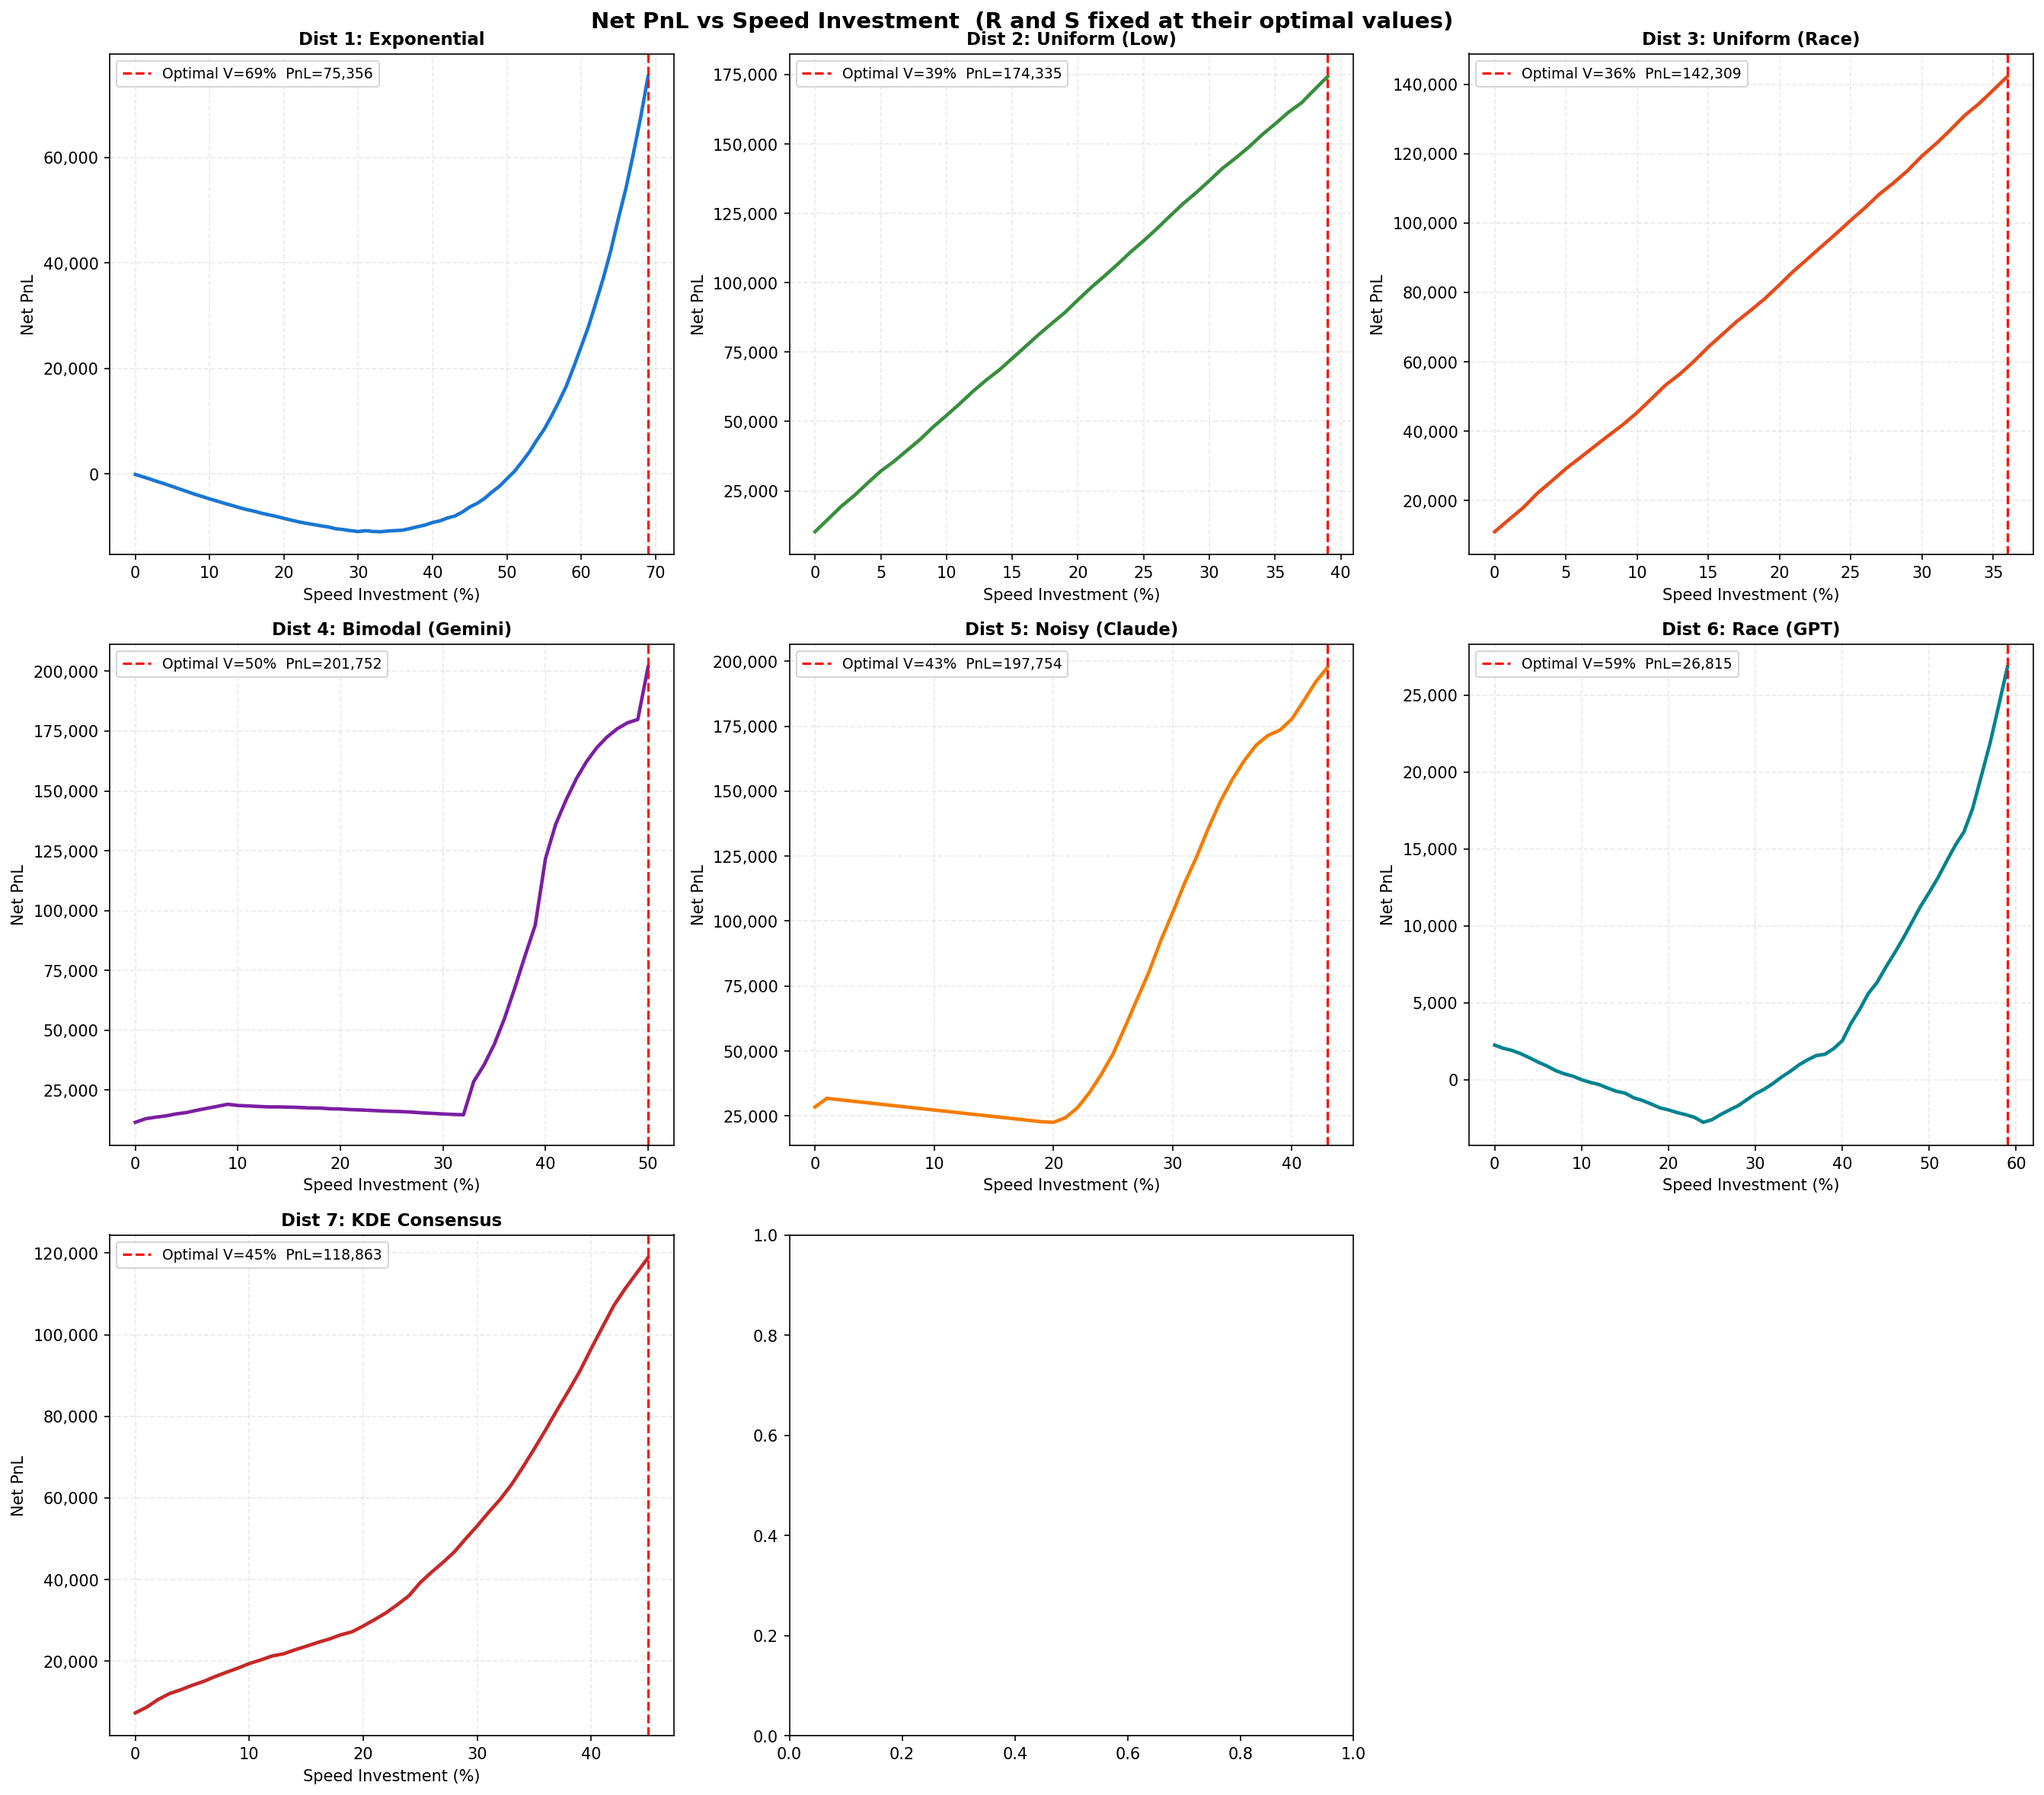
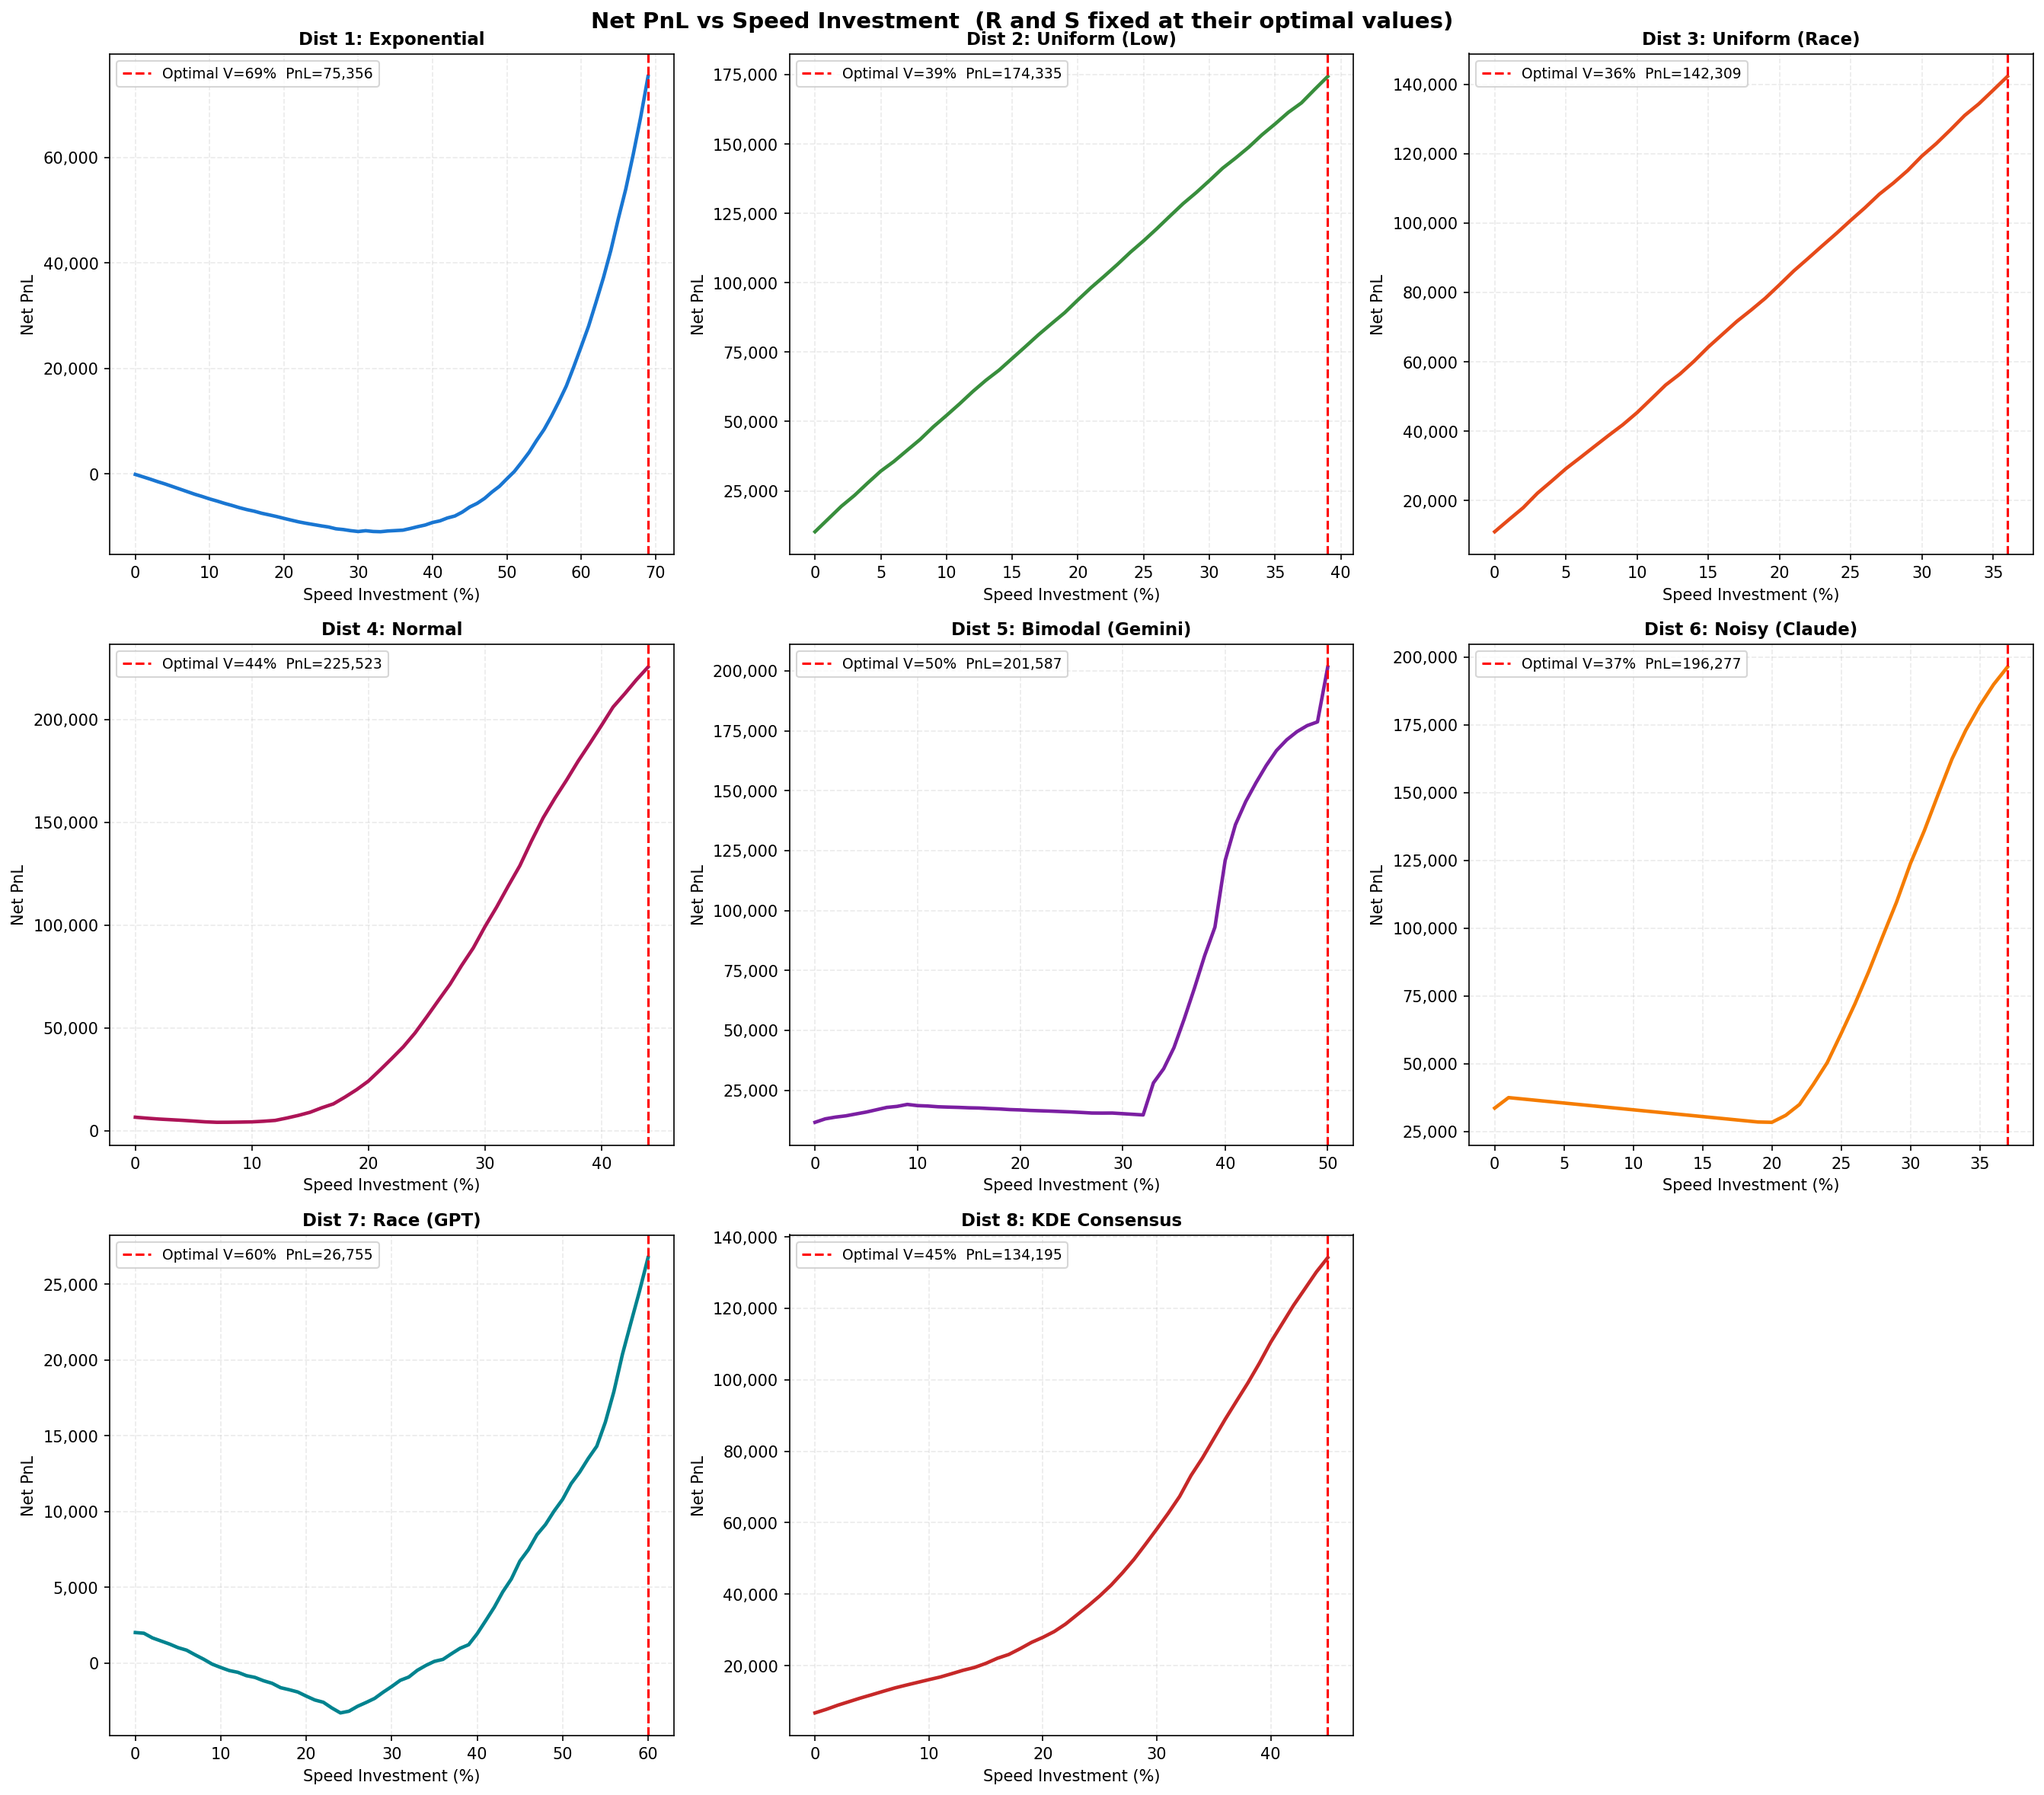
Add Dist 4 Normal, renumber Dists 4-8, update figures and README

diff --git a/ROUND2_Manual/analyze_invest.py b/ROUND2_Manual/analyze_invest.py
@@ -113,6 +113,14 @@ def gen_dist3():
     return add_offbyone_spikes(speeds, [0, 50], spike_frac=0.12)
 
 def gen_dist4():
+    """Normal distribution centered at 33.33%, std~10, truncated to [0,100]."""
+    raw = np.random.normal(loc=33.33, scale=10, size=N_TEAMS * 2)
+    raw = raw[(raw >= 0) & (raw <= 100)][:N_TEAMS]
+    arr = np.clip(np.round(raw).astype(int), 0, 100)
+    # Off-by-one spike at 34 (edging above the 33.33% Schelling point)
+    return add_offbyone_spikes(arr, [33], spike_frac=0.10)
+
+def gen_dist5():
     """Bimodal/Gemini: oblivious peak 0-10, dead zone 11-32, war-zone bulge 33-58.
     Schelling spikes at 33, 40, 50, 55 plus off-by-one edges at 34, 41, 51, 56."""
     speeds = []
@@ -137,7 +145,7 @@ def gen_dist4():
     # Off-by-one: players trying to edge above 0, 33, 40, 50, 55
     return add_offbyone_spikes(arr, [0, 33, 40, 50, 55], spike_frac=0.10)
 
-def gen_dist5():
+def gen_dist6():
     """Noisy/Claude: spike at 0, mass 20-40, exponential tail to 60+."""
     n_zero = int(N_TEAMS * 0.09)
     n_mid  = int(N_TEAMS * 0.57)
@@ -148,7 +156,7 @@ def gen_dist5():
     arr    = np.clip(np.round(raw).astype(int), 0, 100)
     return add_offbyone_spikes(arr, [0], spike_frac=0.15)
 
-def gen_dist6():
+def gen_dist7():
     """Race/GPT: heavy concentration 55-95%, inverse of typical distributions."""
     # From the table: 85-95=25%, 70-85=30%, 55-70=22%, 40-55=12%, 25-40=7%, <25=4%
     segments = [(85, 95, 0.25), (70, 85, 0.30), (55, 70, 0.22),
@@ -163,40 +171,40 @@ def gen_dist6():
     # Off-by-one near 50 and 0 (smaller effect here since most players are high)
     return add_offbyone_spikes(arr, [0, 50], spike_frac=0.10)
 
-# ── Generate all six, then derive the 7th ────────────────────────────────────
+# ── Generate all seven, then derive the 8th ──────────────────────────────────
 
-COLORS = ['#1976D2', '#388E3C', '#E64A19', '#7B1FA2', '#F57C00', '#00838F', '#C62828']
+COLORS = ['#1976D2', '#388E3C', '#E64A19', '#AD1457', '#7B1FA2', '#F57C00', '#00838F', '#C62828']
 
-d1 = gen_dist1(); d2 = gen_dist2(); d3 = gen_dist3()
-d4 = gen_dist4(); d5 = gen_dist5(); d6 = gen_dist6()
+d1 = gen_dist1(); d2 = gen_dist2(); d3 = gen_dist3(); d4 = gen_dist4()
+d5 = gen_dist5(); d6 = gen_dist6(); d7 = gen_dist7()
 
-def gen_dist7(all_six):
+def gen_dist8(all_seven):
     """
-    KDE of the combined speeds from all 6 distributions.
-    Fit a gaussian_kde to the 60 000 pooled samples, then draw
+    KDE of the combined speeds from all 7 distributions.
+    Fit a gaussian_kde to the 70 000 pooled samples, then draw
     10 000 new integer samples from that smoothed distribution.
     """
-    pooled = np.concatenate(all_six).astype(float)
+    pooled = np.concatenate(all_seven).astype(float)
     kde    = gaussian_kde(pooled, bw_method='scott')
-    # Sample from KDE by rejection-sampling into [0, 100]
     samples = []
     while len(samples) < N_TEAMS:
         raw = kde.resample(N_TEAMS * 2)[0]
         raw = raw[(raw >= 0) & (raw <= 100)]
         samples.extend(raw.tolist())
     arr = np.clip(np.round(np.array(samples[:N_TEAMS])).astype(int), 0, 100)
-    return arr, kde  # return kde so we can plot the smooth curve
+    return arr, kde
 
-d7, kde7 = gen_dist7([d1, d2, d3, d4, d5, d6])
+d8, kde8 = gen_dist8([d1, d2, d3, d4, d5, d6, d7])
 
 dists = [
     (d1, "Dist 1: Exponential"),
     (d2, "Dist 2: Uniform (Low)"),
     (d3, "Dist 3: Uniform (Race)"),
-    (d4, "Dist 4: Bimodal (Gemini)"),
-    (d5, "Dist 5: Noisy (Claude)"),
-    (d6, "Dist 6: Race (GPT)"),
-    (d7, "Dist 7: KDE Consensus"),
+    (d4, "Dist 4: Normal"),
+    (d5, "Dist 5: Bimodal (Gemini)"),
+    (d6, "Dist 6: Noisy (Claude)"),
+    (d7, "Dist 7: Race (GPT)"),
+    (d8, "Dist 8: KDE Consensus"),
 ]
 
 # ── Figure 1: Distribution visuals (3×3, last cell empty) ────────────────────
@@ -208,16 +216,17 @@ annot_data = [
     [(10, 0.55, "Very few\nat low %"), (70, 0.92, "Peak ~70%")],
     [(25, 0.88, "Uniform 0-50%"), (59, 0.65, "Slight drop"), (83, 0.25, "Near-zero")],
     [(25, 0.70, "Lower flat\n0-50%"), (60, 0.88, "Rises\n50-70%"), (83, 0.25, "Near-zero")],
+    [(33, 0.92, "Peak ~33%")],
     [(5, 0.92, "Oblivious"), (21, 0.40, "Dead\nzone"), (44, 0.70, "War-zone")],
     [(0, 0.88, "0% cluster"), (30, 0.78, "Core 20-40%"), (62, 0.45, "Tail 60+")],
     [(15, 0.40, "<25%:\n~4%"), (47, 0.55, "40-55%:\n~12%"), (77, 0.88, "55-95%:\n~77%")],
     [(50, 0.92, "Smoothed\nconsensus")],
 ]
 vline_data = [
-    [68], [], [50], [33, 40, 50, 55], [], [55], [],
+    [68], [], [50], [33], [33, 40, 50, 55], [], [55], [],
 ]
 offbyone_data = {
-    1: [1], 2: [1, 51], 3: [1, 34, 41, 51, 56], 4: [1], 5: [1, 51],
+    1: [1], 2: [1, 51], 3: [34], 4: [1, 34, 41, 51, 56], 5: [1], 6: [1, 51],
 }
 
 for idx, (dist, name) in enumerate(dists):
@@ -226,10 +235,10 @@ for idx, (dist, name) in enumerate(dists):
                            alpha=0.72, edgecolor='none', density=True)
     ymax = max(counts)
 
-    # Overlay KDE smooth curve on the 7th subplot
-    if idx == 6:
+    # Overlay KDE smooth curve on the 8th subplot
+    if idx == 7:
         x_smooth = np.linspace(0, 100, 500)
-        kde_vals  = kde7(x_smooth)
+        kde_vals  = kde8(x_smooth)
         ax.plot(x_smooth, kde_vals, color='black', lw=2.0, label='KDE curve')
         ax.legend(fontsize=9)
 

diff --git a/ROUND2_Manual/README.md b/ROUND2_Manual/README.md
@@ -49,7 +49,11 @@ Similar to Dist 2 but the **50–70% band is denser than 0–50%** — a partial
 
 > More competitive than Dist 2 but not a full GPT-style arms race.
 
-### Distribution 4 — Bimodal (Gemini)
+### Distribution 4 — Normal
+
+A normal distribution centered at **33.33%** (the even split) with standard deviation ~10%. Represents teams that rationally converge on a "fair" allocation but with natural spread around that anchor. An off-by-one spike at 34% from players trying to edge above the 33% Schelling point.
+
+### Distribution 5 — Bimodal (Gemini)
 
 A psychologically-shaped distribution with three zones:
 
@@ -60,13 +64,13 @@ A psychologically-shaped distribution with three zones:
 
 > Bidding exactly 50% lands in a massive rank collision but still nets a strong multiplier (~0.85) because so many others cluster there too.
 
-### Distribution 5 — Noisy (Claude)
+### Distribution 6 — Noisy (Claude)
 
 - **Spike at 0%:** ~9% of teams reason through the math and skip Speed.
 - **Core mass at 20–40%:** the hedgers (~57%).
 - **Exponential tail to 60+%:** the speed-dominant players (~34%).
 
-### Distribution 6 — Race (GPT)
+### Distribution 7 — Race (GPT)
 
 A full arms-race scenario. ~77% of all teams invest between **55–95%** in Speed.
 
@@ -81,9 +85,9 @@ A full arms-race scenario. ~77% of all teams invest between **55–95%** in Spee
 
 > Even investing 59% only yields a 0.34 speed multiplier. R and S are so starved that Net PnL collapses.
 
-### Distribution 7 — KDE Consensus
+### Distribution 8 — KDE Consensus
 
-A **Gaussian KDE** fitted to all 60,000 pooled samples from Distributions 1–6, then resampled to 10,000. Represents a "no strong prior" hedge across all models.
+A **Gaussian KDE** fitted to all 70,000 pooled samples from Distributions 1–7, then resampled to 10,000. Represents a "no strong prior" hedge — the expected distribution if all seven models are equally likely.
 
 > The smooth KDE curve is overlaid on the histogram in the visualization.
 
@@ -107,10 +111,11 @@ Grid search over all integer (r, s, v) with r + s + v ≤ 100. Optimization is f
 | Dist 1: Exponential | 9% | 22% | 69% | 0.816 | 125,356 | 75,356 |
 | Dist 2: Uniform (Low) | 15% | 46% | 39% | 0.580 | 224,335 | 174,335 |
 | Dist 3: Uniform (Race) | 16% | 48% | 36% | 0.466 | 192,309 | 142,309 |
-| **Dist 4: Bimodal (Gemini)** | **13%** | **37%** | **50%** | **0.850** | **251,752** | **201,752** |
-| Dist 5: Noisy (Claude) | 15% | 42% | 43% | 0.701 | 247,754 | 197,754 |
-| Dist 6: Race (GPT) | 11% | 30% | 59% | 0.340 | 76,815 | 26,815 |
-| Dist 7: KDE Consensus | 14% | 41% | 45% | 0.501 | 168,863 | 118,863 |
+| **Dist 4: Normal** | **14%** | **42%** | **44%** | **0.799** | **275,523** | **225,523** |
+| Dist 5: Bimodal (Gemini) | 13% | 37% | 50% | 0.849 | 251,587 | 201,587 |
+| Dist 6: Noisy (Claude) | 16% | 47% | 37% | 0.610 | 246,277 | 196,277 |
+| Dist 7: Race (GPT) | 11% | 29% | 60% | 0.351 | 76,755 | 26,755 |
+| Dist 8: KDE Consensus | 14% | 41% | 45% | 0.547 | 184,195 | 134,195 |
 
 ---
 
@@ -122,11 +127,13 @@ Grid search over all integer (r, s, v) with r + s + v ≤ 100. Optimization is f
 
 **Speed is the pivotal decision.** The optimal Speed allocation ranges from 36% (Dist 3) to 69% (Dist 1) depending on the competitive environment.
 
-**Best case: Dist 4 (Bimodal/Gemini) — Net PnL 201,752.** Investing exactly 50% exploits the Schelling-point collision: you share rank with many others but still land a ~0.85 multiplier, freeing up budget for R and S.
+**Best case: Dist 4 (Normal) — Net PnL 225,523.** Teams converging on ~33% speed creates a favorable environment: investing 44% lands you well above the crowd with a strong 0.80 multiplier while still leaving room for R and S.
 
-**Worst case: Dist 6 (Race/GPT) — Net PnL 26,815.** A full arms race destroys value for everyone. Even the optimal counter-strategy only captures a 0.34 speed multiplier.
+**Second best: Dist 5 (Bimodal/Gemini) — Net PnL 201,587.** Investing exactly 50% exploits the Schelling-point collision: you share rank with many others but still land a ~0.85 multiplier.
 
-**KDE Consensus (Dist 7) suggests R=14%, S=41%, V=45%** as a reasonable hedge if you have no strong belief about which distribution is correct. Net PnL of ~119k sits near the average of all six scenarios.
+**Worst case: Dist 7 (Race/GPT) — Net PnL 26,755.** A full arms race destroys value for everyone. Even the optimal counter-strategy only captures a 0.35 speed multiplier.
+
+**KDE Consensus (Dist 8) suggests R=14%, S=41%, V=45%** as a reasonable hedge if you have no strong belief about which distribution is correct. Net PnL of ~134k now incorporates all seven scenarios including the Normal distribution.
 
 ---
 
